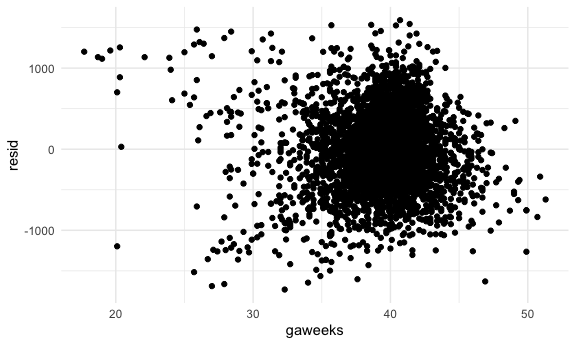
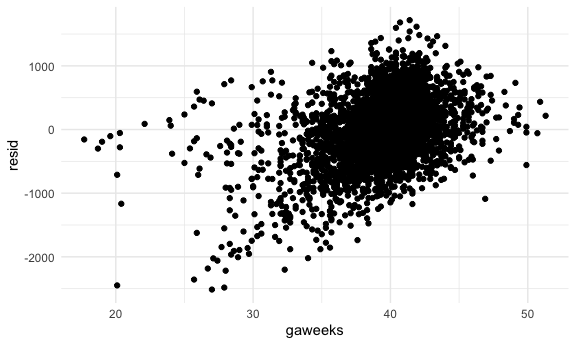
completed problem 2

diff --git a/p8105_hw6_cks2143.md b/p8105_hw6_cks2143.md
@@ -84,33 +84,124 @@ models_results_df %>%
 
 ## Problem 2
 
-Build model, cross-validation
+**Clean dataframe**
 
 ``` r
 baby_df =
-  read_csv("./data/birthweight.csv")
+  read_csv("./data/birthweight.csv") %>% 
+    mutate(
+    babysex = as.factor(case_when(
+      babysex == 1 ~ "male",
+      babysex == 2 ~ "female"
+    )),
+    malform = as.factor(case_when(
+      malform == 0 ~ "absent",
+      malform == 1 ~ "present"
+    )),
+    frace = as.factor(case_when(
+      frace == 1 ~ "White",
+      frace == 2 ~ "Black",
+      frace == 3 ~ "Asian",
+      frace == 4 ~ "Puerto Rican",
+      frace == 8 ~ "Other",
+      frace == 9 ~ "Unknown"
+    )),
+    mrace = as.factor(case_when(
+      mrace == 1 ~ "White",
+      mrace == 2 ~ "Black",
+      mrace == 3 ~ "Asian",
+      mrace == 4 ~ "Puerto Rican",
+      mrace == 8 ~ "Other",
+      mrace == 9 ~ "Unknown"
+    ))
+  ) 
+
+sum(is.na(baby_df))
 ```
 
+    ## [1] 0
+
+**Regression model**
+
+This regression model is built on the assumption that mother’s age at
+delivery and parents’ race are associated with birthweight.
+
 ``` r
-model_fit = lm(bwt ~ gaweeks, data = baby_df)
+model_fit = lm(bwt ~ momage + frace + mrace, data = baby_df)
+
+model_fit %>% 
+        broom::tidy() %>% 
+        knitr::kable()
 ```
+
+| term              |     estimate |  std.error |   statistic |   p.value |
+| :---------------- | -----------: | ---------: | ----------: | --------: |
+| (Intercept)       |  3017.051740 |  93.554453 |  32.2491517 | 0.0000000 |
+| momage            |     4.896561 |   2.058374 |   2.3788488 | 0.0174099 |
+| fraceBlack        |  \-58.453750 | 141.306975 | \-0.4136650 | 0.6791399 |
+| fraceOther        |   \-9.858016 | 174.866483 | \-0.0563745 | 0.9550460 |
+| fracePuerto Rican |  \-29.227000 | 140.714311 | \-0.2077045 | 0.8354694 |
+| fraceWhite        |    13.041554 | 124.180610 |   0.1050209 | 0.9163641 |
+| mraceBlack        | \-101.135218 | 144.969108 | \-0.6976329 | 0.4854442 |
+| mracePuerto Rican |  \-31.642474 | 144.869454 | \-0.2184206 | 0.8271117 |
+| mraceWhite        |   131.944965 | 128.477951 |   1.0269853 | 0.3044847 |
 
 ``` r
 baby_df %>% 
-  modelr::add_residuals(model_fit) %>% 
-  ggplot(aes(x = resid)) +
-  geom_density()
+  add_residuals(model_fit) %>% 
+  add_predictions(model_fit) %>% 
+  ggplot(aes(x = pred, y = resid)) + 
+        geom_point() + 
+        geom_smooth(se = FALSE, method = "lm")
 ```
 
-<img src="p8105_hw6_cks2143_files/figure-gfm/unnamed-chunk-7-1.png" width="90%" />
+<img src="p8105_hw6_cks2143_files/figure-gfm/unnamed-chunk-6-1.png" width="90%" />
+
+**Cross-validation**
 
 ``` r
-baby_df %>% 
-  modelr::add_residuals(model_fit) %>% 
-  ggplot(aes(x = gaweeks, y = resid)) +
-  geom_point()
+model2 = 
+  lm(bwt ~ blength + gaweeks, data = baby_df)
+
+model3 = 
+  lm(bwt ~ bhead + blength + babysex + bhead * blength + bhead * babysex + blength * babysex + bhead * blength * babysex, data = baby_df)
+
+cv_df =
+  crossv_mc(baby_df, 100) %>% 
+  mutate(
+    train = map(train, as_tibble),
+    test = map(test, as_tibble))
+
+cv_df = 
+  cv_df %>% 
+  mutate(
+    model_fit = map(train, ~lm(bwt ~ momage + frace + mrace, data = .x)),
+    model2 = map(train, ~lm(bwt ~ blength + gaweeks, data = .x)),
+    model3 = map(train, ~lm(bwt ~ bhead + blength + babysex + bhead * blength + bhead * babysex + blength * babysex + bhead * blength * babysex, data = .x))) %>% 
+  mutate(
+    rmse_modelfit = map2_dbl(model_fit, test, ~rmse(model = .x, data = .y)),
+    rmse_m2   = map2_dbl(model2, test, ~rmse(model = .x, data = .y)),
+    rmse_m3 = map2_dbl(model3, test, ~rmse(model = .x, data = .y)))
 ```
 
-<img src="p8105_hw6_cks2143_files/figure-gfm/unnamed-chunk-7-2.png" width="90%" />
+**RMSE plot**
+
+``` r
+cv_df %>% 
+  select(starts_with("rmse")) %>% 
+  pivot_longer(
+    everything(),
+    names_to = "model", 
+    values_to = "rmse",
+    names_prefix = "rmse_") %>% 
+  mutate(model = fct_inorder(model)) %>% 
+  ggplot(aes(x = model, y = rmse)) + 
+  geom_violin()
+```
+
+<img src="p8105_hw6_cks2143_files/figure-gfm/unnamed-chunk-8-1.png" width="90%" />
+
+**Model 3** (head circumference, length, sex, and all interactions) has
+the best fit to predict baby’s birthweight since it has the lowest RMSE.
 
 ## Problem 3
